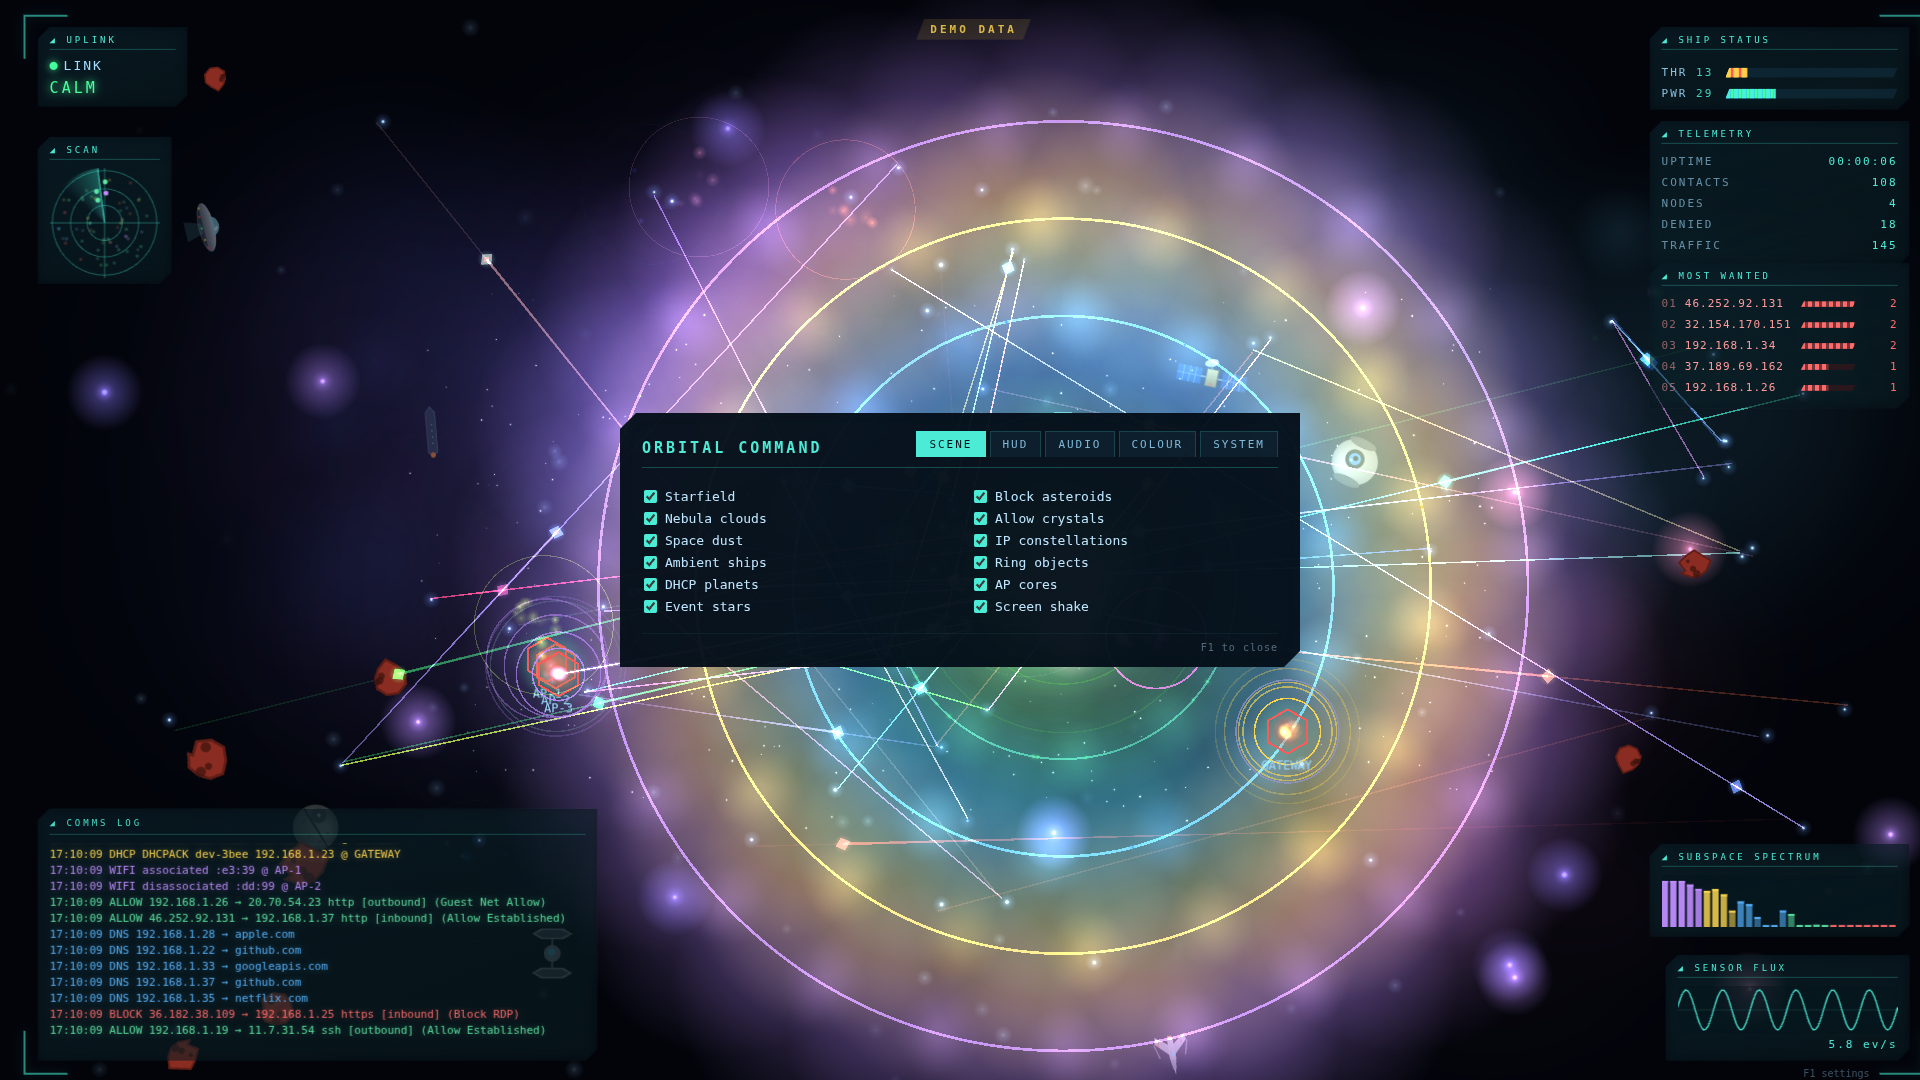
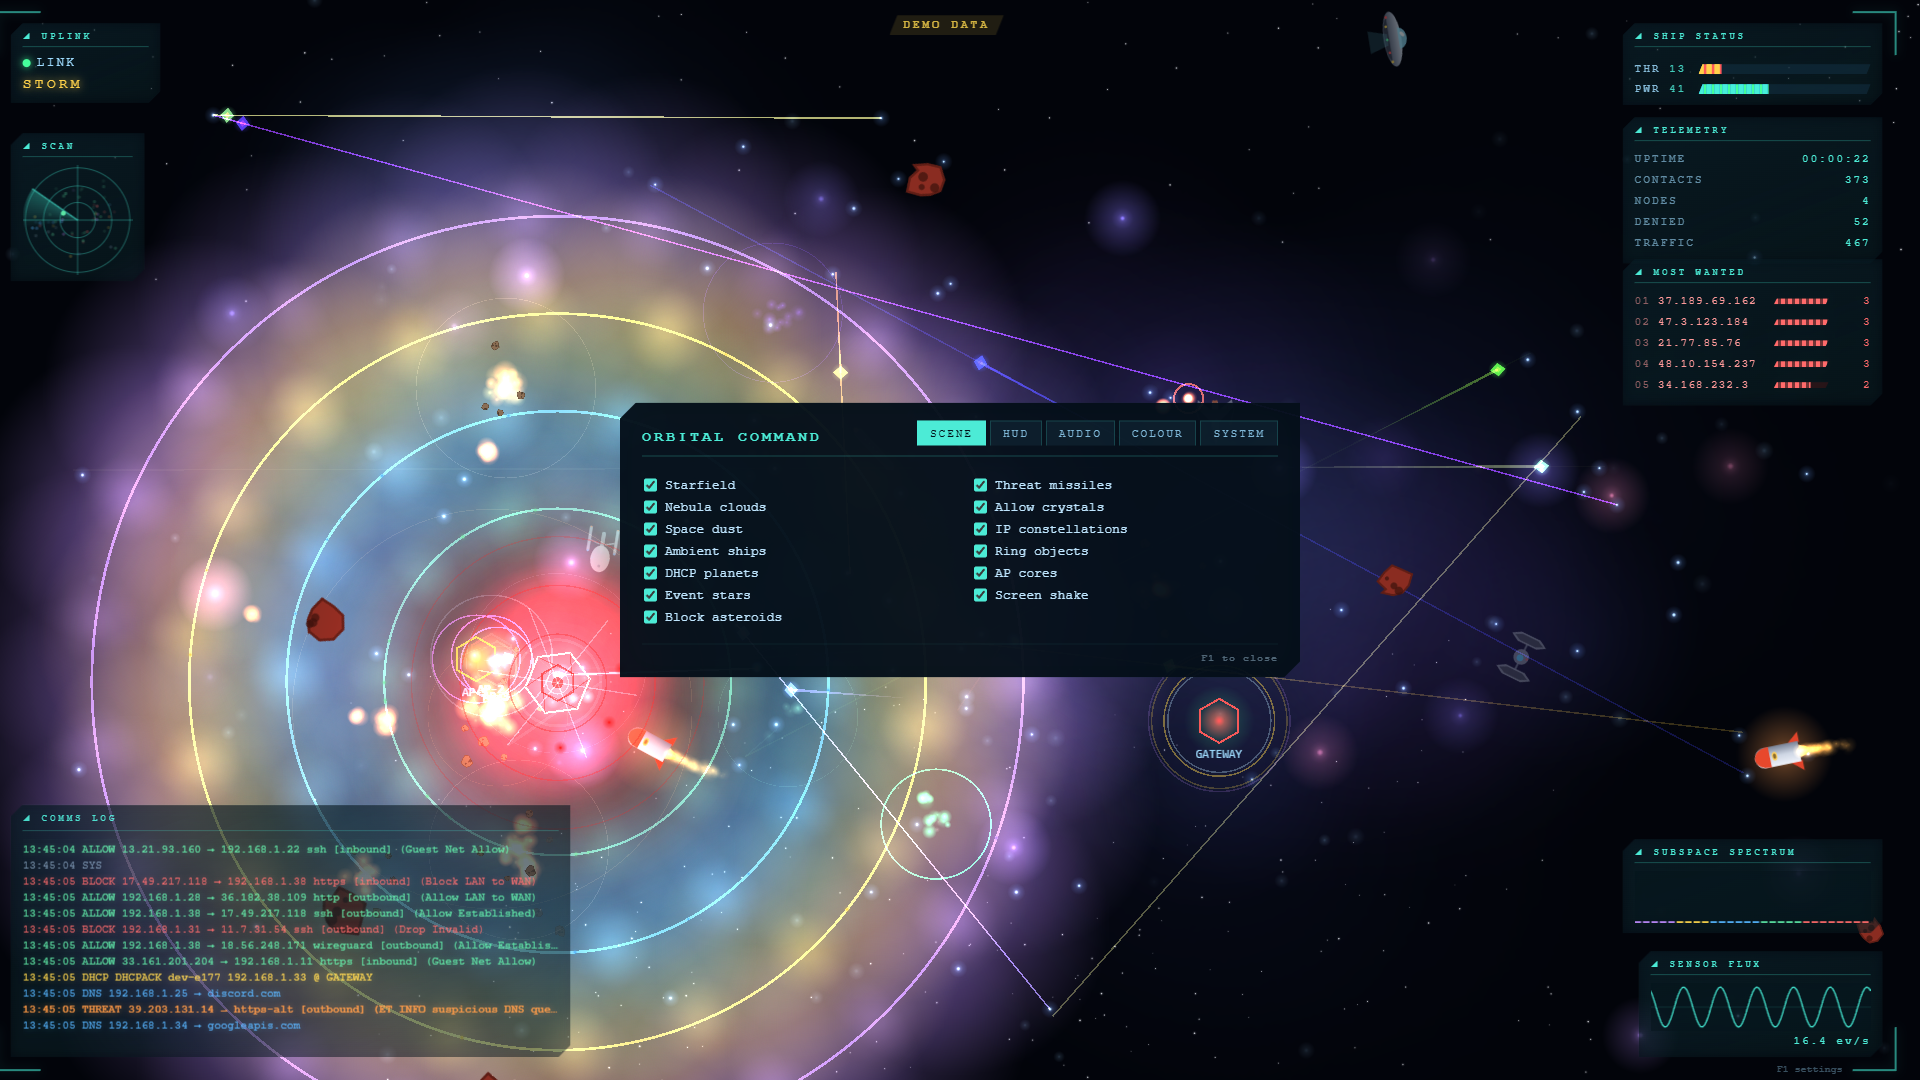
docs: correct stale README claims, refresh panel and debug screenshots
README:
- DHCP row: leases show as labelled planets and an AP core ripple; there
  was never a station->AP laser
- F1 panel: antialias and GPU power need a reload, not everything is live
- WAN interface hint pointed at /healthz, which has no interface info; point
  at the IN=/OUT= fields of firewall syslog lines instead
- Auto guess: also no-WebGL (Low), <=4 GB memory and Intel HD/UHD (Medium)
- System tab row: IP star and event star caps
- Weather: amber for STORM, red for HURRICANE
- Deploying: web/dist has to be built with Node elsewhere and copied; relay
  restart only when relay/ changes
- CM5 numbers predate the core/theme split; note the post-split live check

Screenshots: docs/panel.png (Scene tab now has Threat missiles) and
docs/debug.png (FPS / tier / render scale readout), 1920x1080 demo captures.

Fix: the ?debug=1 overlay wrapped onto two lines mid-value at 1920px since
the perf readout was added; keep it on one line.

diff --git a/web/src/app.ts b/web/src/app.ts
@@ -135,7 +135,8 @@ export async function boot<T extends ThemeSettings>(theme: Theme<T>): Promise<vo
     const d = document.createElement('div');
     d.style.cssText = `position:fixed;left:50%;transform:translateX(-50%);bottom:6px;
       z-index:50;font:11px monospace;color:#7fd4ff;background:rgba(0,0,0,0.65);
-      padding:4px 12px;letter-spacing:1px;display:flex;align-items:center;gap:10px;`;
+      padding:4px 12px;letter-spacing:1px;display:flex;align-items:center;gap:10px;
+      white-space:nowrap;max-width:calc(100vw - 12px);overflow:hidden;`;
     const perfTxt = document.createElement('span');
     d.appendChild(perfTxt);
     const txt = document.createElement('span');

diff --git a/README.md b/README.md
@@ -154,7 +154,9 @@ picked up automatically: the viewer registry finds it, the build writes
 
 3. Open `http://<relay-host>:8080`. Adjust `wan_interfaces` in
    `relay/relay.yaml` if inbound/outbound classification looks wrong
-   (`ppp0` for DSL, `eth9/eth10` on some setups — see `/healthz`).
+   (`ppp0` for DSL, `eth8`–`eth10` on many UDM/UDR setups). The `IN=` /
+   `OUT=` fields of your gateway's firewall syslog lines show which interface
+   is the WAN.
 
 4. Production build: `cd web && npm run build` — the relay serves `dist/`
    automatically (with `Cache-Control: no-cache`, so refreshes always get the
@@ -169,14 +171,14 @@ Colors of every effect match the comms-log lines verbatim:
 | allow    | green      | crystals core↔device + star-to-star links, inner ring |
 | block    | red        | inbound asteroid → station laser intercept, shake + flash |
 | dns      | blue       | blue laser client→station ("the resolver is you"), 2nd ring |
-| dhcp     | yellow     | station→AP yellow laser, 3rd ring |
+| dhcp     | yellow     | a labelled planet (the client's hostname) drifts across the field, the logging AP core ripples yellow, 3rd ring |
 | wifi     | purple     | client **joins** (associated / authenticated) send a crystal AP core → station; **leaves** and failures (deauth, disassoc, rejects) fire a laser station → AP core; a faint event star marks each one; 4th ring |
 | system   | grey       | grey shockwave from the station |
 | threat   | amber      | IDS/IPS detection (Enhanced/CyberSecure tier) — an attack **rocket** that burns in on an evasive, weaving path from a random bearing, gets shot down close to the station with an amber detonation, and turns the core **red** while any rocket is alive; carries a MAC, no source IP |
 
 Traffic volume drives weather: **STORM** at ≥300 events/30s and **HURRICANE** at
-≥1200 — the HUD goes amber, the station flares, and the field fills with debris
-and intercept fire.
+≥1200 — the weather readout turns amber (STORM) or red (HURRICANE), the
+station flares, and the field fills with debris and intercept fire.
 IPs you talk to a lot grow into constellations; blocked destinations rack up
 on the **MOST WANTED** board. The fleet drifting through the scene is a
 hand-drawn (procedurally generated) honor squad.
@@ -217,7 +219,9 @@ your network:
 ## F1 settings panel
 
 Press **F1** for a tabbed control surface — **Scene / HUD / Audio / Colour /
-System**. Everything is live (no reload) and persists to localStorage.
+System**. Changes apply live and persist to localStorage, except antialias
+and GPU power, which the renderer reads at startup (the panel offers
+*Apply & reload*).
 
 | Tab | What's in it |
 |-----|--------------|
@@ -225,7 +229,7 @@ System**. Everything is live (no reload) and persists to localStorage.
 | **HUD** | uplink · ship-status bars · telemetry · most-wanted · comms log · sensor flux · subspace spectrum · radar · scanlines |
 | **Audio** | additive Melody / Devices layers, per-event volume + per-event gate, the noise (chaos) gate, master / reverb / echo / music-bed, device mix |
 | **Colour** | host-mesh scheme (spectrum / event-law / mono / warm / cool) + a global hue-shift & intensity that sweeps the mesh, nebula and HUD accent |
-| **System** | quality preset (auto / low / medium / high / ultra / custom) · render scale · FPS cap · particle, star, nebula, dust, effect-detail budgets · antialias + GPU power (reload) · simulation speed · reset-to-defaults |
+| **System** | quality preset (auto / low / medium / high / ultra / custom) · render scale · FPS cap · particle, star density, nebula, dust, effect-detail budgets · IP star and event star caps · antialias + GPU power (reload) · simulation speed · reset-to-defaults |
 
 ### Audio: volume vs gate
 
@@ -263,9 +267,10 @@ and a quality tier bundles every knob that trades looks for frame time.
 | IP stars / event stars | 60 / 100 | 100 / 180 | 140 / 260 | 200 / 400 |
 
 - **High** is exactly how the scene looked before presets existed.
-- **Auto** (the default) guesses a tier when the page loads (Pi / phone GPUs
-  and software renderers start at Low, touch devices and ≤4-core machines at
-  Medium, everything else at High), then watches the real frame rate. If it
+- **Auto** (the default) guesses a tier when the page loads (Pi / phone GPUs,
+  software renderers and browsers without WebGL start at Low; touch devices,
+  ≤4-core or ≤4 GB machines and Intel HD/UHD integrated graphics at Medium;
+  everything else at High), then watches the real frame rate. If it
   stays under ~75% of target for 5 seconds, it drops one tier. It only ever
   steps **down**, so it can't flap; a reload starts from the guess again. The
   System tab shows which tier Auto is running and why.
@@ -301,6 +306,9 @@ the render calls ~8ms per frame; the rest is Chromium painting and compositing
 a 1440p page: hiding the HUD alone reached 33fps, and hiding the whole WebGL
 scene only 27fps. On a board like this, running the display at 1080p is likely
 to help more than any in-page setting.
+
+These numbers predate the core/theme split. After it, the same kiosk ran Auto
+(Low) at 26.4fps on live STORM traffic, in line with the numbers above.
 
 ![config tour](docs/config.gif)
 
@@ -363,6 +371,13 @@ sudo cp deploy/pewpew-relay.service /etc/systemd/system/   # adjust paths/user
 sudo systemctl enable --now pewpew-relay
 cp deploy/pewpew-kiosk.desktop ~/.config/autostart/        # fullscreen chromium
 ```
+
+The relay serves `web/dist/`, which needs Node 18+ to build. A Pi doesn't
+need Node: build on any machine (`cd web && npm ci && npm run build`) and
+copy `web/dist/` into the relay's checkout, e.g.
+`rsync -a --delete web/dist/ pi@<relay-host>:pewpew-ui/web/dist/`. Static files
+update without a restart; restart `pewpew-relay` only when `relay/` changes
+(UniFi devices then take 1–3 minutes to resume logging).
 
 The kiosk entry opens `?quality=low`, the starting point for a Pi 5. Edit the URL
 in `pewpew-kiosk.desktop` to try `medium`, to point a kiosk at a relay on
